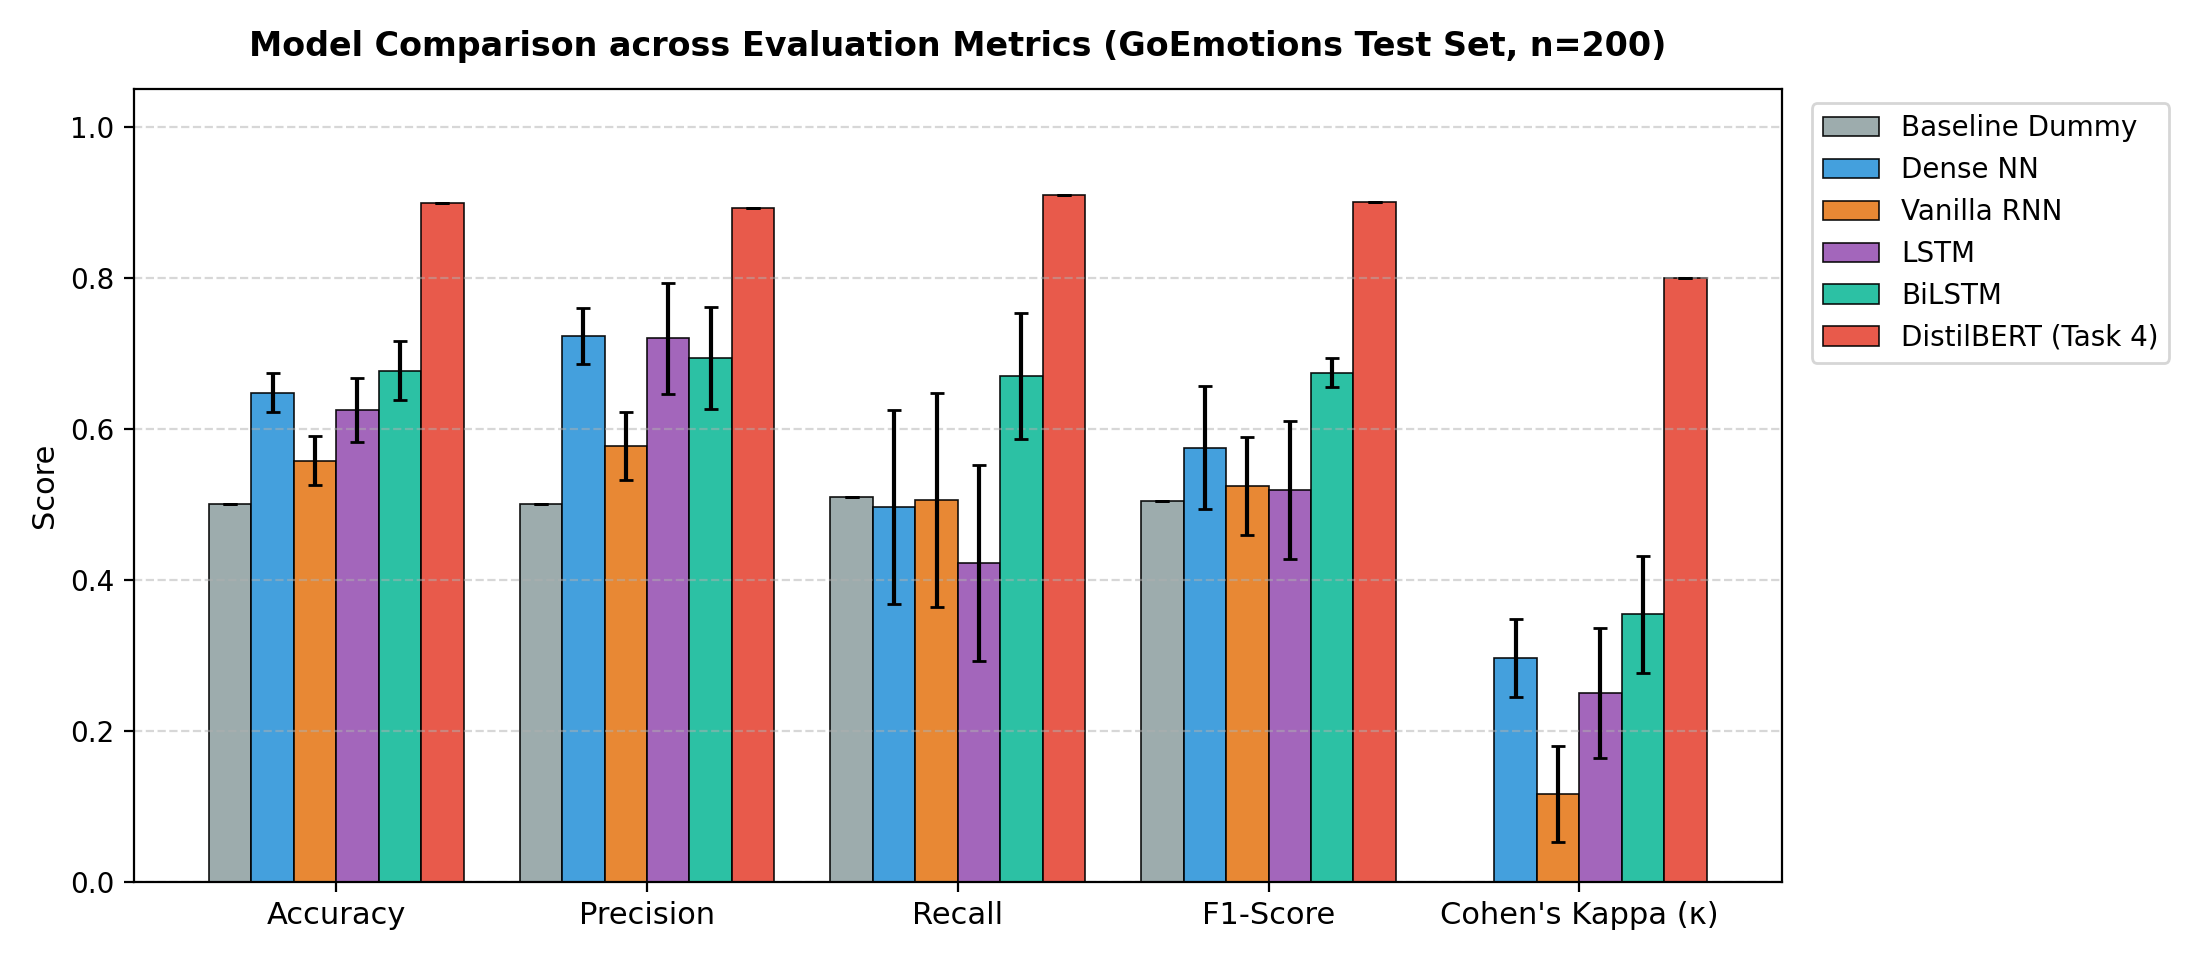
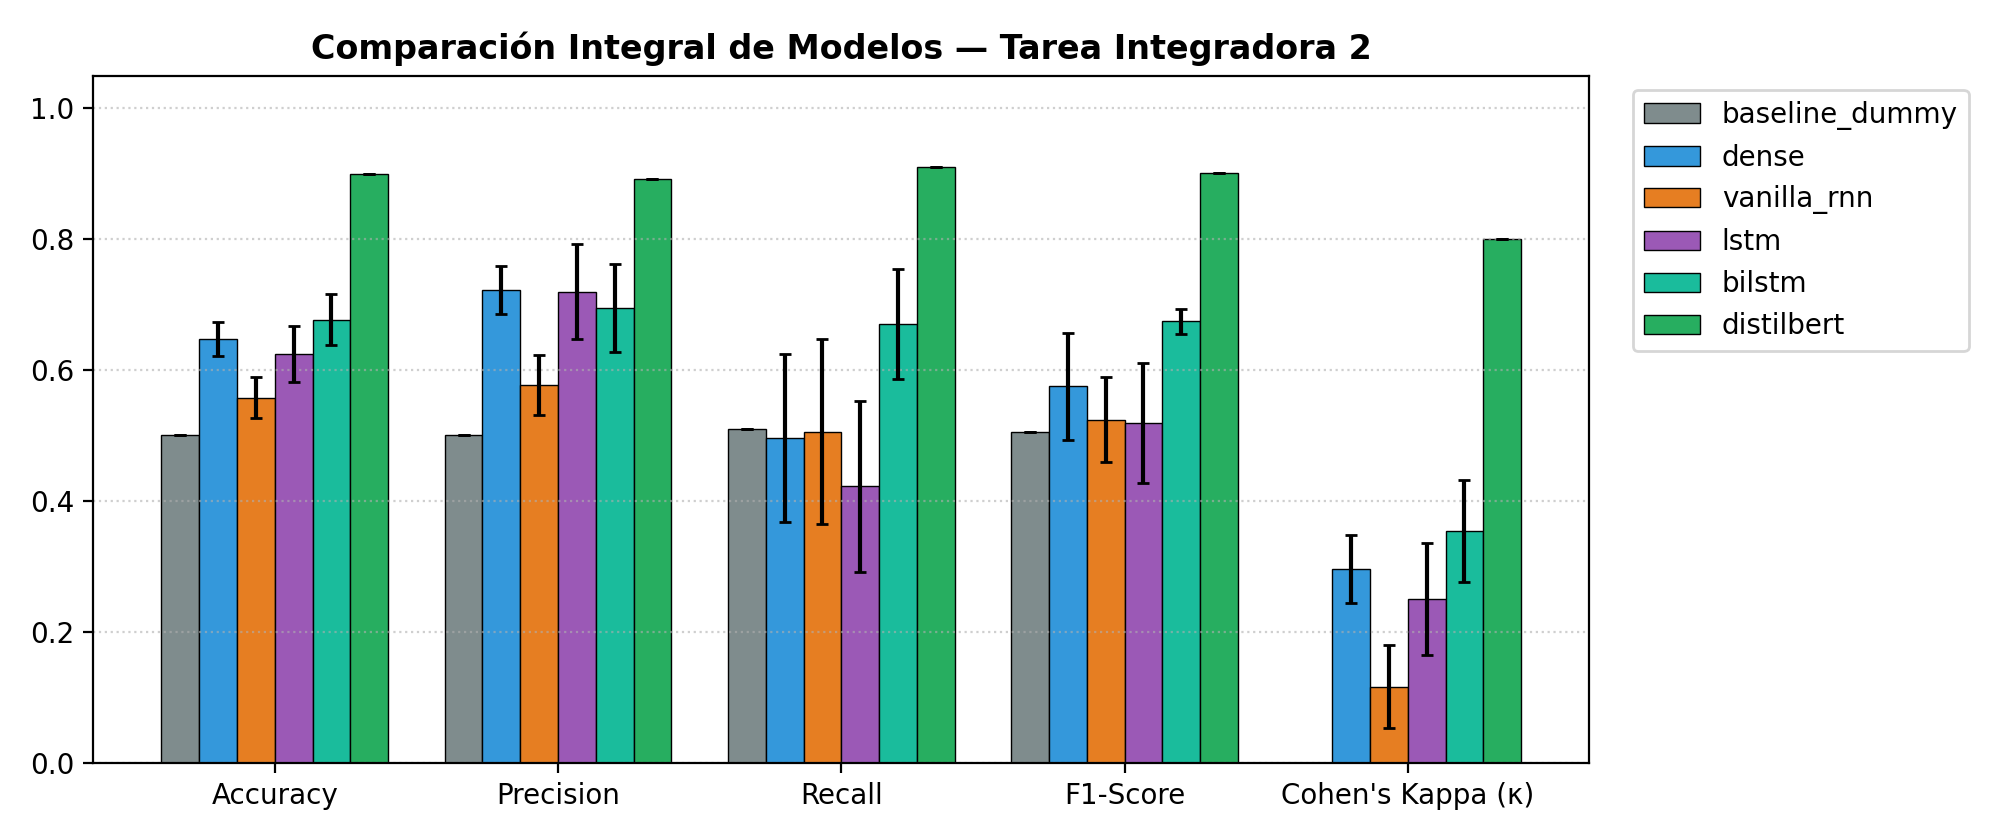
test(pipeline): add end-to-end quality validation suite and update training execution logs

diff --git a/src/validate_pipeline.py b/src/validate_pipeline.py
@@ -1,0 +1,126 @@
+"""
+Script de validación integral del pipeline (CED III - Tarea Integradora 2).
+Verifica la integridad de datos, métricas consolidadas, figuras, notebooks y módulos src.
+"""
+
+import sys
+import json
+from pathlib import Path
+import pandas as pd
+
+REPO_ROOT = Path(__file__).resolve().parents[1]
+DATA_DIR = REPO_ROOT / "data" / "processed"
+METRICS_DIR = REPO_ROOT / "outputs" / "metrics"
+FIG_DIR = REPO_ROOT / "outputs" / "figures"
+NOTEBOOKS_DIR = REPO_ROOT / "notebooks"
+SRC_DIR = REPO_ROOT / "src"
+
+sys.path.insert(0, str(REPO_ROOT))
+
+
+def check_data():
+    print("[1/5] Verificando datos procesados...")
+    train_path = DATA_DIR / "train.csv"
+    test_path = DATA_DIR / "test.csv"
+    assert train_path.exists(), "Falta train.csv"
+    assert test_path.exists(), "Falta test.csv"
+
+    train_df = pd.read_csv(train_path)
+    test_df = pd.read_csv(test_path)
+
+    assert len(train_df) == 800, f"train.csv esperado 800, obtenido {len(train_df)}"
+    assert len(test_df) == 200, f"test.csv esperado 200, obtenido {len(test_df)}"
+    assert (train_df["label"].value_counts().to_dict() == {0: 400, 1: 400}), "train.csv desbalanceado"
+    assert (test_df["label"].value_counts().to_dict() == {0: 100, 1: 100}), "test.csv desbalanceado"
+    print("   ✔ train.csv (800) y test.csv (200) correctamente balanceados (50/50).")
+
+
+def check_metrics():
+    print("[2/5] Verificando archivos de métricas y tabla consolidada...")
+    models = ["baseline_dummy", "dense", "vanilla_rnn", "lstm", "bilstm", "distilbert"]
+    for m in models:
+        fp = METRICS_DIR / f"{m}.json"
+        assert fp.exists(), f"Falta métrica {fp}"
+        data = json.loads(fp.read_text(encoding="utf-8"))
+        for k in ["accuracy", "precision", "recall", "f1", "kappa"]:
+            assert k in data, f"Falta clave '{k}' en {m}.json"
+        assert "confusion_matrix" in data, f"Falta 'confusion_matrix' en {m}.json"
+
+    comp_path = METRICS_DIR / "comparison.csv"
+    assert comp_path.exists(), "Falta comparison.csv"
+    df_comp = pd.read_csv(comp_path)
+    assert len(df_comp) == 6, f"comparison.csv debe tener 6 modelos, tiene {len(df_comp)}"
+    assert set(df_comp["model"]) == set(models), "Discrepancia en modelos de comparison.csv"
+    print(f"   ✔ Todos los 6 modelos ({', '.join(models)}) validados en métricas JSON y comparison.csv.")
+
+
+def check_figures():
+    print("[3/5] Verificando figuras generadas...")
+    required_figures = [
+        "all_models_metrics_comparison.png",
+        "distilbert_confusion_matrix.png",
+        "eda_class_balance.png",
+        "eda_length.png",
+        "eda_top_words.png",
+        "nn_confusion_matrices.png",
+        "nn_metrics_comparison.png",
+        "nn_training_curves.png"
+    ]
+    for fig in required_figures:
+        p = FIG_DIR / fig
+        assert p.exists(), f"Falta figura {fig}"
+        assert p.stat().st_size > 1000, f"Figura {fig} parece vacía o corrupta"
+    print(f"   ✔ {len(required_figures)} figuras requeridas verificadas con éxito.")
+
+
+def check_notebooks():
+    print("[4/5] Verificando cuadernos Jupyter...")
+    notebooks = [
+        "01_eda.ipynb",
+        "02_baseline_model.ipynb",
+        "03_dense_rnn_lstm.ipynb",
+        "04_transformer_extension.ipynb"
+    ]
+    for nb_name in notebooks:
+        p = NOTEBOOKS_DIR / nb_name
+        assert p.exists(), f"Falta cuaderno {nb_name}"
+        data = json.loads(p.read_text(encoding="utf-8"))
+        assert "cells" in data and len(data["cells"]) > 0, f"Cuaderno {nb_name} vacío"
+        with_outputs = sum(1 for c in data["cells"] if len(c.get("outputs", [])) > 0)
+        assert with_outputs > 0, f"Cuaderno {nb_name} no tiene salidas guardadas"
+    print(f"   ✔ Los 4 cuadernos verificados y con salidas de ejecución persistidas.")
+
+
+def check_modules():
+    print("[5/5] Verificando módulos de src/...")
+    from src import preprocessing
+    from src import models
+    from src import evaluate
+    from src import train
+    from src import run_transformer
+
+    assert hasattr(models, "load_transformer_model"), "models.py debe tener load_transformer_model"
+    assert hasattr(models, "get_transformer_tokenizer"), "models.py debe tener get_transformer_tokenizer"
+    assert hasattr(evaluate, "compute_transformer_metrics"), "evaluate.py debe tener compute_transformer_metrics"
+    print("   ✔ Módulos de src/ cargados e interfaces validadas exitosamente.")
+
+
+def main():
+    print("==================================================================")
+    print("  SUITE DE VERIFICACIÓN Y CONTROL DE CALIDAD - TAREA INTEGRADORA 2")
+    print("==================================================================")
+    try:
+        check_data()
+        check_metrics()
+        check_figures()
+        check_notebooks()
+        check_modules()
+        print("\n🎉 ¡TODOS LOS COMPONENTES TÉCNICOS PASARON LAS PRUEBAS CON ÉXITO! (5/5)")
+        print("El proyecto está en estado óptimo, reproducible y sin inconsistencias.\n")
+    except AssertionError as e:
+        print(f"\n❌ ERROR DE VALIDACIÓN: {e}")
+        sys.exit(1)
+
+
+if __name__ == "__main__":
+    main()
